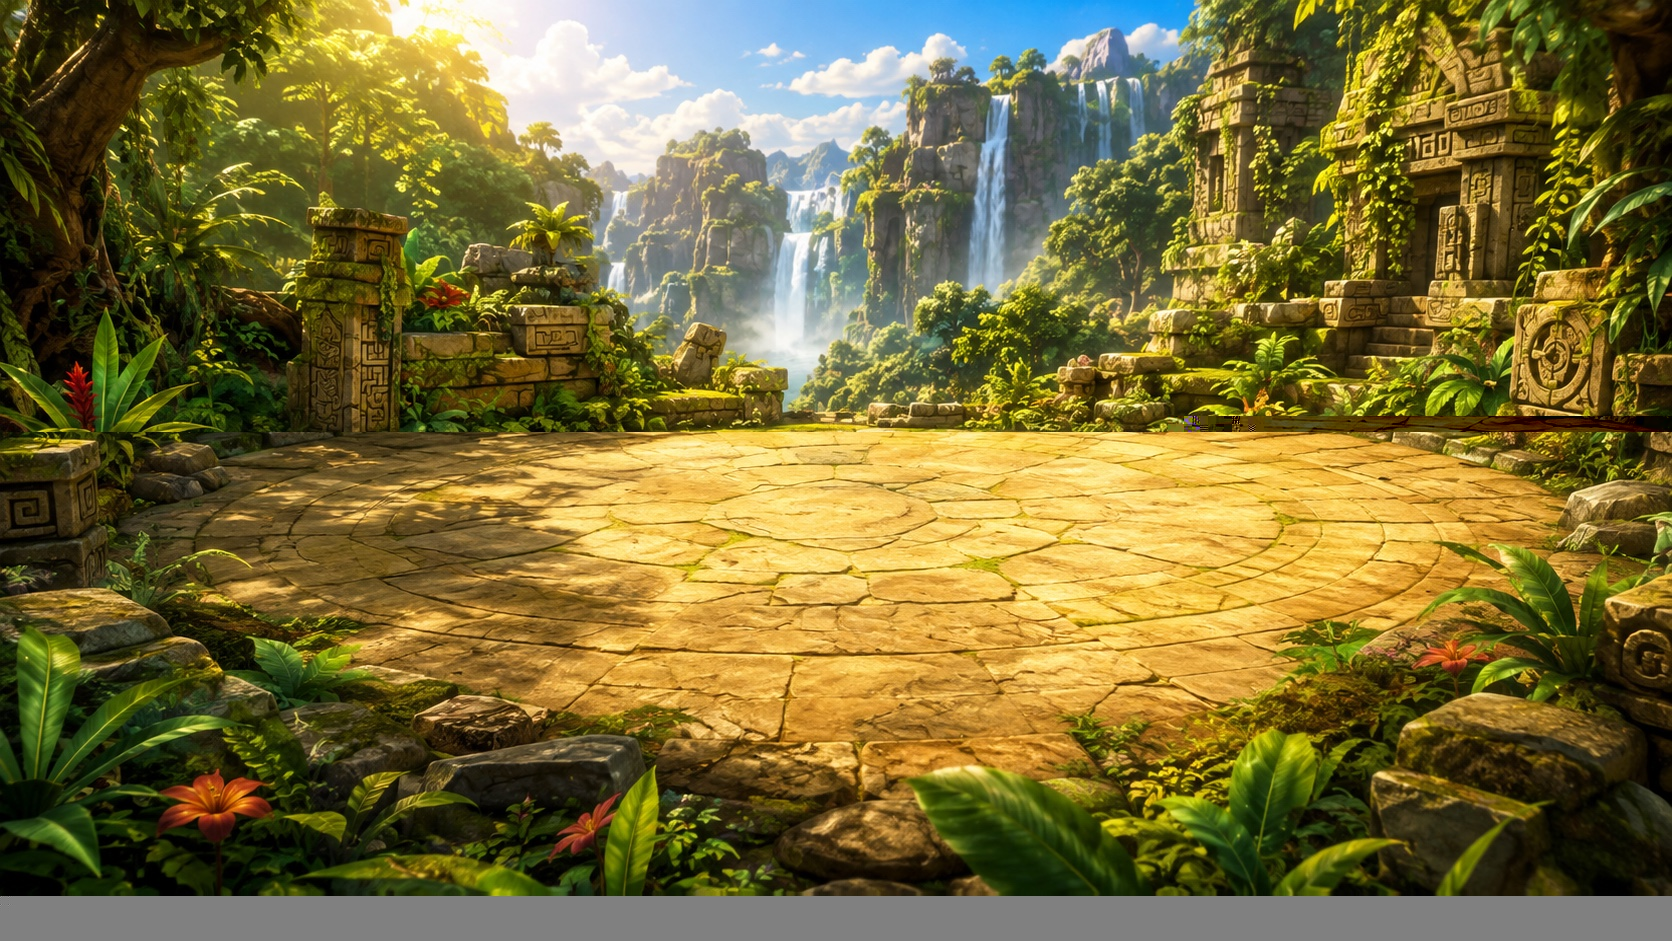
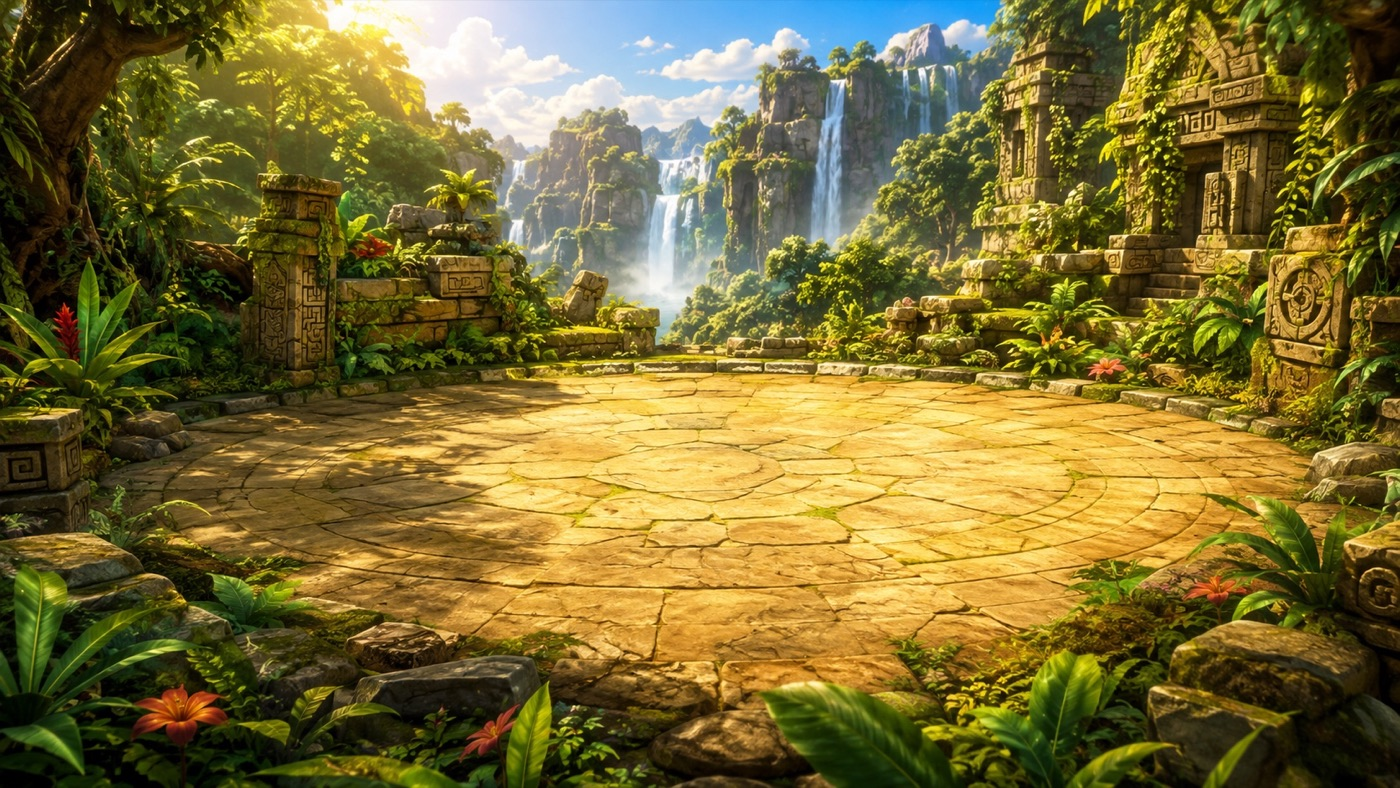
Add fast hammer controls, resize boxes, and repaired assets

diff --git a/src/enhancements.css b/src/enhancements.css
@@ -7,5 +7,6 @@ body[data-hole-style="neon"] .hole{background:radial-gradient(ellipse,#050313 15
 .hole{background-color:transparent!important;background-size:100% 100%!important;background-repeat:no-repeat!important}.hole-card{padding:5px}.hole-card img{display:block;width:100%;height:62px;object-fit:contain}.hole-card small{display:block;padding:4px}
 .preview-toolbar{display:flex;align-items:center;gap:8px;margin:0 0 12px;overflow-x:auto;overflow-y:hidden;white-space:nowrap;scrollbar-width:thin}.preview-toolbar .object-chip,.preview-toolbar .screen-btn{flex:0 0 auto;margin:0}.preview-pane{min-width:0}.sidebar{position:relative;z-index:30;pointer-events:auto}.sidebar button,.sidebar input,.sidebar select,.sidebar textarea,.sidebar label{pointer-events:auto}.panel{overflow-anchor:none}
 .mole.hit{animation-duration:var(--exit-duration,.36s)!important;animation-fill-mode:forwards!important}.mole.exit-sink{animation-name:exitSink!important}.mole.exit-spin{animation-name:exitSpin!important}.mole.exit-pop{animation-name:exitPop!important}.mole.exit-fly{animation-name:exitFly!important}.mole.exit-shake{animation-name:exitShake!important}.mole.exit-fade{animation-name:exitFade!important}@keyframes exitSink{to{transform:translateY(115%) scale(.55);opacity:.15}}@keyframes exitSpin{to{transform:translateY(35%) rotate(540deg) scale(.1);opacity:0}}@keyframes exitPop{60%{transform:translateY(0) scale(1.35)}to{transform:translateY(0) scale(0);opacity:0}}@keyframes exitFly{to{transform:translateY(-180%) rotate(25deg);opacity:0}}@keyframes exitShake{20%,60%{transform:translate(-12px,5%) rotate(-12deg)}40%,80%{transform:translate(12px,5%) rotate(12deg)}to{transform:translateY(95%);opacity:0}}@keyframes exitFade{to{filter:blur(12px);transform:scale(1.25);opacity:0}}
-.player-hammer{pointer-events:auto!important;cursor:grab;touch-action:none;transform:translate(-50%,-65%) rotate(-24deg);filter:drop-shadow(0 12px 12px #000a);transition:filter .15s}.player-hammer.held{cursor:grabbing;filter:drop-shadow(0 0 16px #a96cff);transform:translate(-50%,-65%) rotate(10deg) scale(1.08)}.player-hammer .custom-art{object-fit:contain;background:transparent!important}
+.player-hammer{pointer-events:auto!important;cursor:grab;touch-action:none;transform:translate(-50%,-65%) rotate(-24deg);filter:drop-shadow(0 12px 12px #000a);transition:filter .08s;padding:18px;margin:-18px}.player-hammer.held{cursor:grabbing;filter:drop-shadow(0 0 16px #a96cff);transform:translate(-50%,-65%) rotate(10deg) scale(1.08)}.player-hammer .custom-art{object-fit:contain;background:transparent!important}
 .transparent-tool{display:block;width:100%;height:82px;object-fit:contain;background:transparent}.premium-item{background:linear-gradient(145deg,#17162b,#231742)}
+.selection-box{position:absolute;z-index:25;transform:translate(-50%,-50%);aspect-ratio:1;border:2px dashed #44ef8b;background:#20d87810;cursor:move;touch-action:none;box-shadow:0 0 0 1px #04180c,0 0 18px #35e87c66}.selection-art{width:100%;height:100%;display:grid;place-items:center;overflow:hidden}.selection-art img,.selection-art .game-sprite{width:100%;height:100%;object-fit:contain;background:transparent}.resize-handle{position:absolute;right:-8px;bottom:-8px;width:17px;height:17px;border:2px solid #071b0f;border-radius:50%;background:#44ef8b;cursor:nwse-resize;box-shadow:0 0 10px #44ef8b}

diff --git a/src/defaults.js b/src/defaults.js
@@ -26,6 +26,7 @@ export const defaultProject = {
     {id:'bomb',name:'Бомба',emoji:'💣',toolArtIndex:0,kind:'danger',points:-10,scale:1}
   ],
   hitItem:{name:'Молоток',emoji:'🔨',toolArtIndex:3,size:70,duration:360,exitAnimation:'sink'},
+  editorLayout:{hero:{x:50,y:48,size:18},hammer:{x:75,y:62,size:18}},
   spawnSettings:{mode:'random',minInterval:900,maxInterval:1700,visibleFor:1600,maxActive:2},
   spawnTimeline:[{time:2,character:'mole',hole:0},{time:5,character:'frog',hole:3},{time:8,character:'bomb',hole:1}],
   questions:[
